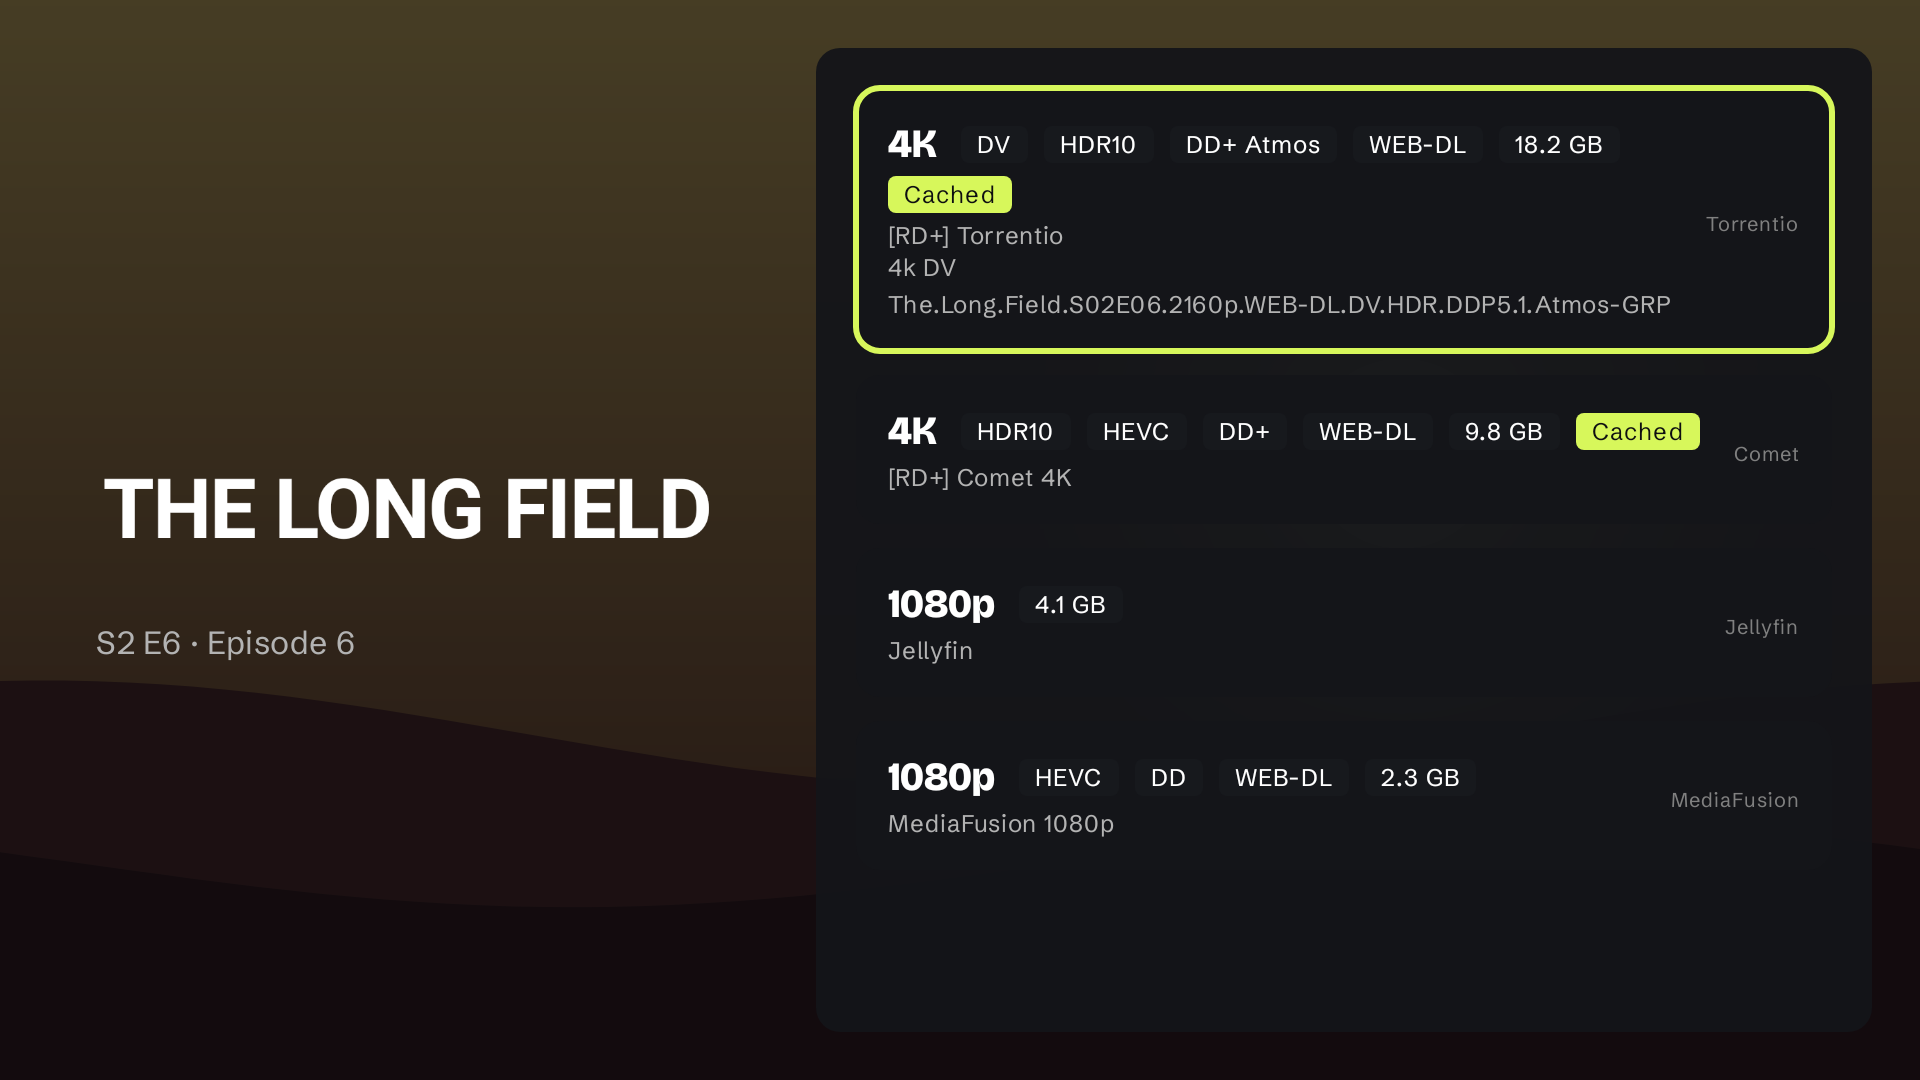
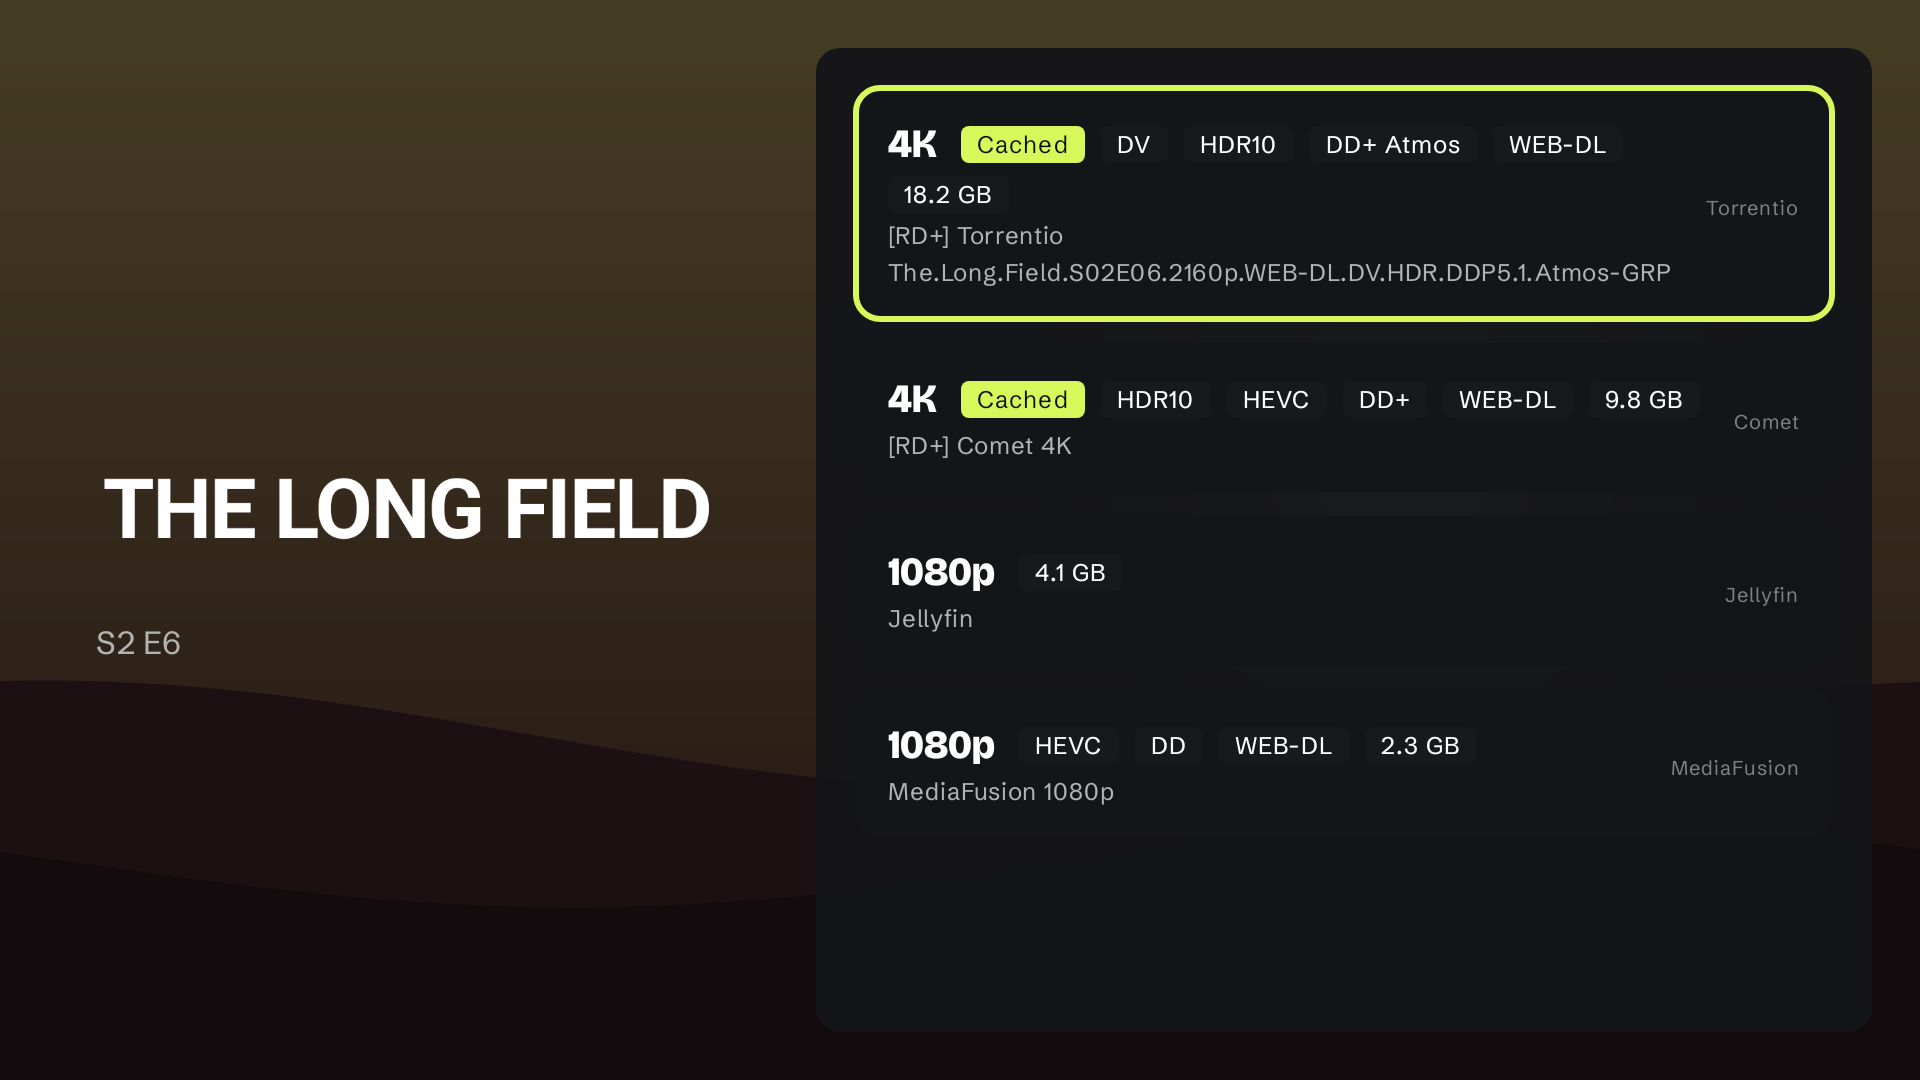
Tidy source cards and the Sources title
- Cached sits right after the resolution, so the chip that wraps on a
  full row is the least important one, not the cache state.
- Name lines that only repeat parsed specs ("4k DV | HDR") are hidden
  while chips are shown.
- The Sources screen skips filler episode titles ("Episode 6").

Claude-Session: https://claude.ai/code/session_01Ha3w4BHa8kbYViNqMcb1DZ

diff --git a/app/src/main/java/com/fetch/tv/ui/screens/stream/StreamScreen.kt b/app/src/main/java/com/fetch/tv/ui/screens/stream/StreamScreen.kt
@@ -77,6 +77,7 @@ import com.fetch.tv.core.party.PartySource
 import com.fetch.tv.core.party.matches
 import com.fetch.tv.ui.util.contentTextDirection
 import com.fetch.tv.ui.util.toAbsoluteAlignment
+import com.fetch.tv.ui.util.isPlaceholderEpisodeTitle
 import com.fetch.tv.ui.util.localizeEpisodeTitle
 import androidx.tv.material3.Border
 import androidx.tv.material3.Card
@@ -716,7 +717,8 @@ private fun LeftContentSection(
                     color = FetchTheme.extendedColors.textSecondary,
                     textAlign = TextAlign.Center
                 )
-                if (episodeName != null) {
+                // "Episode 6" would only repeat the line above.
+                if (episodeName != null && !episodeName.isPlaceholderEpisodeTitle()) {
                     Spacer(modifier = Modifier.height(FetchTheme.spacing.xs))
                     Text(
                         text = episodeName.localizeEpisodeTitle(LocalContext.current),
@@ -1327,7 +1329,6 @@ internal fun StreamCard(
     val context = LocalContext.current
     val density = LocalDensity.current
     val unknownStreamLabel = stringResource(R.string.stream_unknown)
-    val streamName = remember(stream, unknownStreamLabel) { stream.getDisplayNameOrNull() ?: unknownStreamLabel }
     val streamDescription = remember(stream) { stream.getDisplayDescription() }
     // Parsed from the addon's free-form text: the card leads with these chips and keeps the raw
     // release name for the focused card, where there is room to read it.
@@ -1338,6 +1339,11 @@ internal fun StreamCard(
     }
     val cachedLabel = stringResource(R.string.best_match_cached)
     val hasParsedSpec = headline != null || specChips.isNotEmpty()
+    // With chips shown, a name line like "4k DV" only repeats them.
+    val streamName = remember(stream, unknownStreamLabel, hasParsedSpec) {
+        val name = stream.getDisplayNameOrNull() ?: unknownStreamLabel
+        if (hasParsedSpec) withoutSpecOnlyLines(name) else name
+    }
     val hasBadges = stream.badges.isNotEmpty() || (showFileSizeBadges && stream.behaviorHints?.videoSize != null) || reserveBadgeSpace
     val cardShape = RoundedCornerShape(FetchTheme.radii.md)
 
@@ -1432,8 +1438,10 @@ internal fun StreamCard(
                                 modifier = Modifier.padding(end = FetchTheme.spacing.xs)
                             )
                         }
-                        specChips.forEach { chip -> StreamSpecChip(chip) }
+                        // Cached comes first: it matters most, and the last chip is the one
+                        // that wraps when the row runs out of width.
                         if (descriptor.isDebridCached) StreamSpecChip(cachedLabel, highlighted = true)
+                        specChips.forEach { chip -> StreamSpecChip(chip) }
                     }
                 }
                 exclusion?.let { reason ->

diff --git a/app/src/main/java/com/fetch/tv/ui/screens/stream/StreamDisplayText.kt b/app/src/main/java/com/fetch/tv/ui/screens/stream/StreamDisplayText.kt
@@ -1,0 +1,29 @@
+package com.fetch.tv.ui.screens.stream
+
+/**
+ * Spec words addons put in a stream name ("4k DV | HDR"). A line made only of these says nothing
+ * the parsed chips don't already show.
+ */
+private val SPEC_WORD = Regex(
+    "(?i)\\b(" +
+        "\\d{3,4}p|[48]k|uhd|fhd|qhd|hd|sd|" +
+        "dv|dovi|dolby|vision|hdr10\\+|hdr10|hdr|hlg|sdr|imax|" +
+        "hevc|avc|av1|vp9|[xh]\\.?26[45]|10[ -]?bits?|8[ -]?bits?|" +
+        "atmos|truehd|dts(?:-?(?:hd|x|ma))?|ddp?(?:\\+|\\b)|e?-?ac-?3|aac|flac|opus|" +
+        "remux|web-?dl|web-?rip|web|blu-?ray|bdrip|brrip|hdtv|" +
+        "\\d(?:\\.\\d)?ch|[257]\\.[01]" +
+        ")(?=\\W|$)"
+)
+
+/**
+ * Drops lines of an addon's stream name that only repeat its parsed specs, keeping the lines
+ * that name the addon or the release. Returns the original text if every line would go.
+ */
+internal fun withoutSpecOnlyLines(text: String): String {
+    val lines = text.lines()
+    if (lines.size < 2) return text
+    val kept = lines.filter { line ->
+        line.isNotBlank() && SPEC_WORD.replace(line, "").any { it.isLetterOrDigit() }
+    }
+    return if (kept.isEmpty()) text else kept.joinToString("\n")
+}

diff --git a/app/src/test/java/com/fetch/tv/ui/screens/stream/StreamDisplayTextTest.kt b/app/src/test/java/com/fetch/tv/ui/screens/stream/StreamDisplayTextTest.kt
@@ -1,0 +1,28 @@
+package com.fetch.tv.ui.screens.stream
+
+import org.junit.Assert.assertEquals
+import org.junit.Test
+
+class StreamDisplayTextTest {
+
+    @Test
+    fun `drops a line that only repeats parsed specs`() {
+        assertEquals("[RD+] Torrentio", withoutSpecOnlyLines("[RD+] Torrentio\n4k DV"))
+        assertEquals("Torrentio", withoutSpecOnlyLines("Torrentio\n4k DV | HDR"))
+        assertEquals("MediaFusion", withoutSpecOnlyLines("MediaFusion\n1080p HEVC DD+ 5.1"))
+    }
+
+    @Test
+    fun `keeps lines that name the addon or the release`() {
+        assertEquals("Comet 4K", withoutSpecOnlyLines("Comet 4K"))
+        assertEquals(
+            "Torrentio\nThe.Long.Field.S02E06.2160p.WEB-DL",
+            withoutSpecOnlyLines("Torrentio\nThe.Long.Field.S02E06.2160p.WEB-DL")
+        )
+    }
+
+    @Test
+    fun `keeps the text when every line is specs`() {
+        assertEquals("4K\nHDR", withoutSpecOnlyLines("4K\nHDR"))
+    }
+}

diff --git a/app/src/test/java/com/fetch/tv/screenshots/ReadmeScreenshots.kt b/app/src/test/java/com/fetch/tv/screenshots/ReadmeScreenshots.kt
@@ -336,7 +336,7 @@ class ReadmeScreenshots {
             ) {
                 AsyncImage(model = meta.logo, contentDescription = null, modifier = Modifier.height(90.dp))
                 Text(
-                    text = "S2 E6 · Episode 6",
+                    text = "S2 E6",
                     style = MaterialTheme.typography.titleMedium,
                     color = FetchTheme.colors.TextSecondary
                 )
